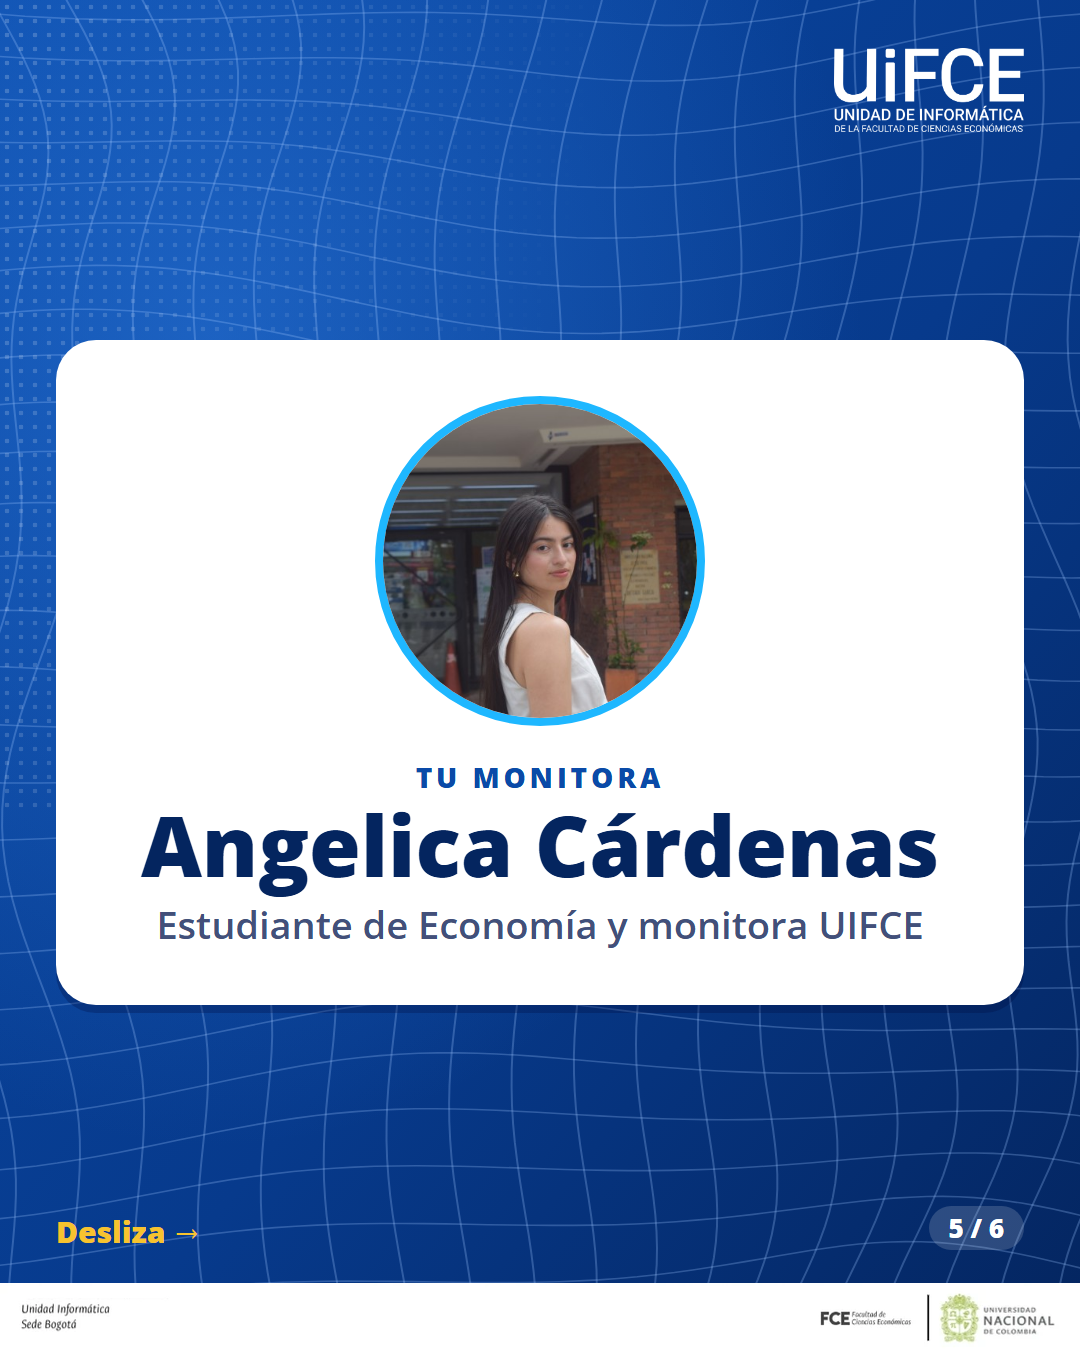
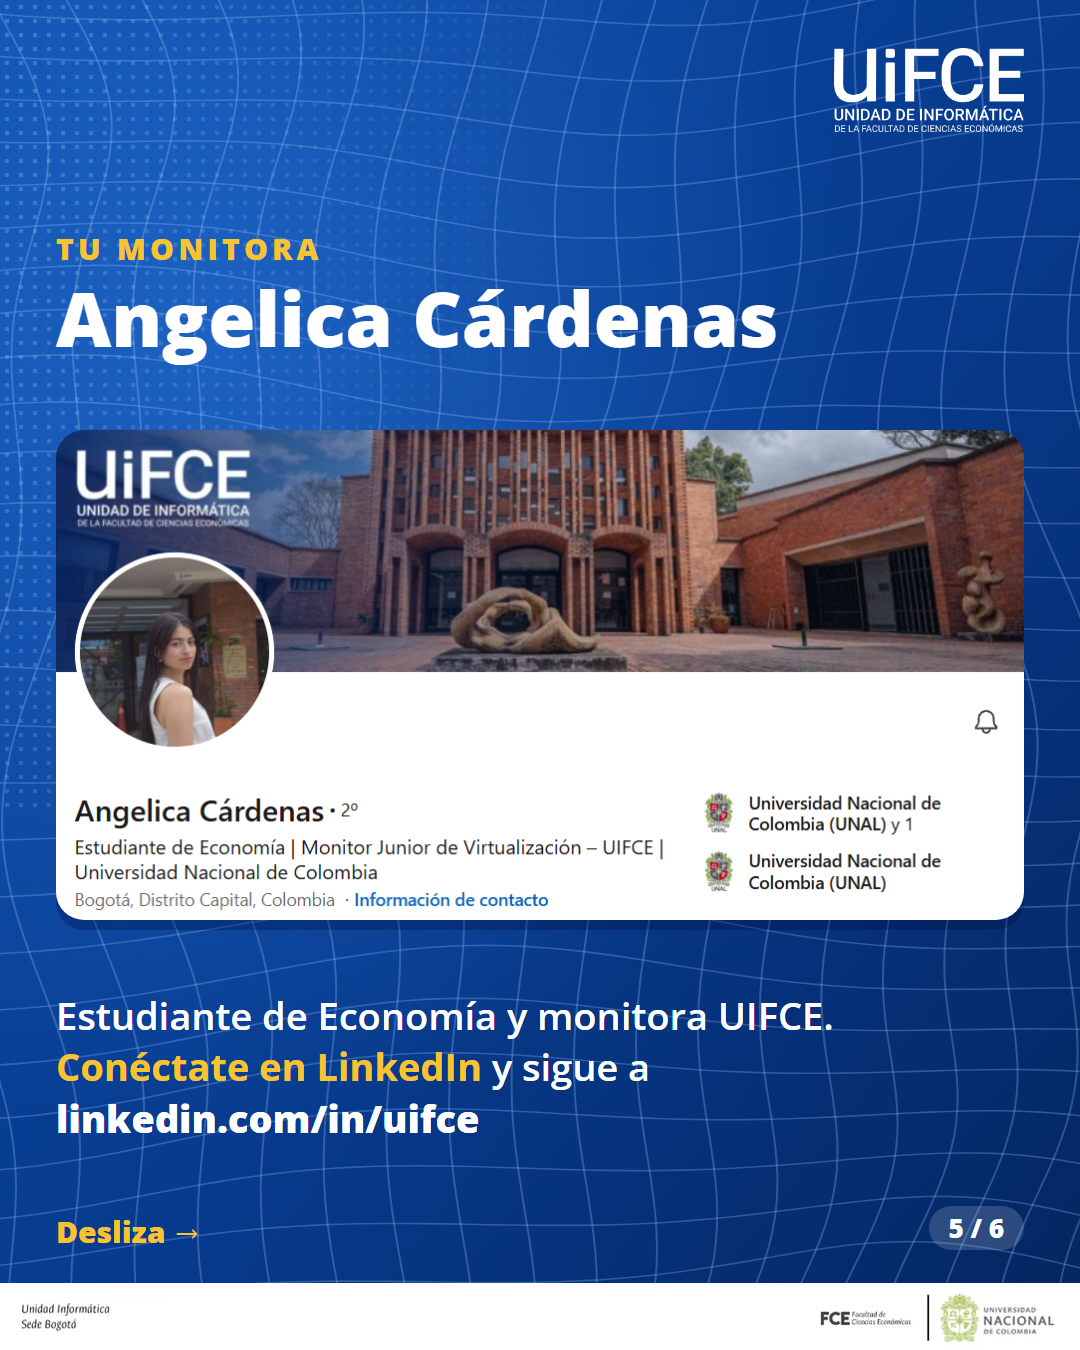
P4: captura del perfil de LinkedIn en Instagram 5 y TV 5; TV rediseñado con QR solo

diff --git a/propuesta-4/extras/tv-03.html b/propuesta-4/extras/tv-03.html
@@ -17,11 +17,11 @@ body{position:relative;overflow:hidden;background:#073a8c;font-family:var(--font
 .qrb small{display:block;font-weight:700;color:var(--blue)}
 .qrb b{display:block;font-weight:800;line-height:1.05}
 .qrb i{display:inline-block;font-style:normal;background:var(--navy);color:#fff;border-radius:999px;font-weight:700}
-</style></head><body><img class="bg" src="../assets/bg-grid.svg" alt=""><div class="dots"></div><img class="z" src="../assets/logo-uifce-static-blanco.png" alt="UIFCE" style="left:56px;top:44px;height:96px"><div class="z" style="left:56px;top:170px;width:1808px"><div style="background:var(--gold);color:var(--navy);border-radius:30px;padding:36px 48px;display:flex;align-items:center;gap:30px;box-shadow:0 8px 0 rgba(0,10,60,.28)"><svg viewBox="0 0 50 50" width="110" height="110" fill="none" stroke="#04255f" stroke-width="3.6" stroke-linecap="round" stroke-linejoin="round" style="flex:none"><circle cx="25" cy="25" r="20"/><path d="M15 26l7 7 13-15"/></svg>
-<b style="font-weight:800;font-size:70px;line-height:1.05">10 horas de corresponsabilidad + certificado</b></div>
-<p style="margin-top:30px;font-size:40px;font-weight:600">Certificado de participación para compartir en LinkedIn</p>
-<div class="card" style="margin-top:26px;padding:26px 40px;width:1020px"><div class="k" style="font-size:32px">Para recibirlos necesitas</div>
-<ul style="list-style:none;font-size:40px;font-weight:700;line-height:1.35;margin-top:8px">
-<li><span class="gold">✓</span> Asistir mínimo al <b class="gold">70 %</b> del tiempo de clase</li>
-<li><span class="gold">✓</span> Diligenciar el formulario de preguntas</li>
-<li><span class="gold">✓</span> Responder la encuesta de satisfacción</li></ul></div></div><div class="z qrb" style="right:48px;bottom:48px;border-radius:30px;padding:20px 28px;gap:26px"><img src="../assets/qr-uifce.svg" style="width:230px;height:230px" alt="QR"><span><small style="font-size:30px">Escanea y inscríbete</small><b style="font-size:48px;margin-top:4px">Inscripciones aquí</b><i style="margin-top:12px;font-size:32px;padding:6px 22px">linktr.ee/UIFCE</i></span></div></body></html>
+</style></head><body><img class="bg" src="../assets/bg-grid.svg" alt=""><div class="dots"></div><img class="z" src="../assets/logo-uifce-static-blanco.png" alt="UIFCE" style="left:56px;top:44px;height:96px"><div class="z" style="left:56px;top:170px;width:1808px"><div style="background:var(--gold);color:var(--navy);border-radius:30px;padding:40px 52px;display:flex;align-items:center;gap:34px;box-shadow:0 8px 0 rgba(0,10,60,.28)"><svg viewBox="0 0 50 50" width="130" height="130" fill="none" stroke="#04255f" stroke-width="3.6" stroke-linecap="round" stroke-linejoin="round" style="flex:none"><circle cx="25" cy="25" r="20"/><path d="M15 26l7 7 13-15"/></svg>
+<b style="font-weight:800;font-size:86px;line-height:1.05">10 horas de corresponsabilidad + certificado</b></div></div>
+<div class="z card" style="left:56px;top:470px;width:1250px;padding:40px 52px"><div class="k" style="font-size:36px">Para recibirlos necesitas</div>
+<ul style="list-style:none;font-size:48px;font-weight:700;line-height:1.3;margin-top:16px">
+<li style="margin-top:14px"><span class="gold">✓</span> Asistir mínimo al <b class="gold">70 %</b> del tiempo de clase</li>
+<li style="margin-top:14px"><span class="gold">✓</span> Diligenciar el formulario de preguntas</li>
+<li style="margin-top:14px"><span class="gold">✓</span> Responder la encuesta de satisfacción</li></ul></div>
+<div class="z" style="left:1380px;top:480px;width:490px;display:flex;align-items:center;gap:20px"><svg width="96" height="96" viewBox="0 0 50 50" style="flex:none"><rect width="50" height="50" rx="10" fill="#0A66C2"/><circle cx="12.6" cy="14.6" r="4" fill="#fff"/><rect x="9" y="20.5" width="7.2" height="20" fill="#fff"/><path d="M20.5 20.5h6.9v2.9c1.2-2 3.4-3.4 6.6-3.4 6 0 7.5 3.9 7.5 9.2v11.3h-7.2V30.8c0-2.2-.4-3.9-2.6-3.9-2.4 0-3.2 1.7-3.2 4.2v9.4h-7z" fill="#fff"/></svg><b style="font-size:32px;line-height:1.15">Certificado para compartir en LinkedIn</b></div><div class="z qrb" style="right:48px;bottom:48px;border-radius:30px;padding:22px 26px 26px;flex-direction:column;gap:14px"><b style="font-size:34px;text-align:center">Inscríbete aquí</b><img src="../assets/qr-uifce.svg" style="width:290px;height:290px" alt="QR de inscripción"></div></body></html>

diff --git a/propuesta-4/extras/tv-02.html b/propuesta-4/extras/tv-02.html
@@ -17,8 +17,8 @@ body{position:relative;overflow:hidden;background:#073a8c;font-family:var(--font
 .qrb small{display:block;font-weight:700;color:var(--blue)}
 .qrb b{display:block;font-weight:800;line-height:1.05}
 .qrb i{display:inline-block;font-style:normal;background:var(--navy);color:#fff;border-radius:999px;font-weight:700}
-</style></head><body><img class="bg" src="../assets/bg-grid.svg" alt=""><div class="dots"></div><img class="z" src="../assets/logo-uifce-static-blanco.png" alt="UIFCE" style="left:56px;top:44px;height:96px"><div class="z" style="left:56px;top:150px;width:1500px"><h2 style="font-weight:800;font-size:80px">Dos sesiones · <span class="gold">4 horas en total</span></h2></div><div class="z card" style="left:56px;top:260px;width:830px;height:460px;padding:44px 48px"><div class="k" style="font-size:34px">Sesión 1</div>
-<h3 style="font-weight:800;font-size:56px;line-height:1.1;margin-top:12px">Conoce QuickBooks y abre Crece Digital S.A.S.</h3>
-<div style="margin-top:24px;border:3px dashed rgba(255,255,255,.65);border-radius:20px;padding:16px 26px;font-weight:700;font-size:38px;line-height:1.25">Viernes 27 de noviembre<br>11 a. m. – 1 p. m.</div></div><div class="z card" style="left:1034px;top:260px;width:830px;height:460px;padding:44px 48px"><div class="k" style="font-size:34px">Sesión 2</div>
-<h3 style="font-weight:800;font-size:56px;line-height:1.1;margin-top:12px">Crea tu plan de cuentas, el capital y el catálogo</h3>
-<div style="margin-top:24px;border:3px dashed rgba(255,255,255,.65);border-radius:20px;padding:16px 26px;font-weight:700;font-size:38px;line-height:1.25">Miércoles 2 de diciembre<br>11 a. m. – 1 p. m.</div></div><div class="z qrb" style="right:48px;bottom:48px;border-radius:30px;padding:20px 28px;gap:26px"><img src="../assets/qr-uifce.svg" style="width:230px;height:230px" alt="QR"><span><small style="font-size:30px">Escanea y inscríbete</small><b style="font-size:48px;margin-top:4px">Inscripciones aquí</b><i style="margin-top:12px;font-size:32px;padding:6px 22px">linktr.ee/UIFCE</i></span></div></body></html>
+</style></head><body><img class="bg" src="../assets/bg-grid.svg" alt=""><div class="dots"></div><img class="z" src="../assets/logo-uifce-static-blanco.png" alt="UIFCE" style="left:56px;top:44px;height:96px"><div class="z" style="left:56px;top:150px;width:1500px"><h2 style="font-weight:800;font-size:84px">Dos sesiones · <span class="gold">4 horas en total</span></h2></div><div class="z card" style="left:56px;top:270px;width:1300px;height:330px;padding:34px 48px;display:flex;align-items:center;gap:44px"><div style="flex:1"><div class="k" style="font-size:34px">Sesión 1</div>
+<h3 style="font-weight:800;font-size:60px;line-height:1.1;margin-top:10px">Conoce QuickBooks y abre Crece Digital S.A.S.</h3></div>
+<div style="flex:none;width:430px;border:3px dashed rgba(255,255,255,.7);border-radius:22px;padding:24px 28px;font-weight:700;font-size:42px;line-height:1.3">Viernes 27 de noviembre<br>11 a. m. – 1 p. m.</div></div><div class="z card" style="left:56px;top:630px;width:1300px;height:330px;padding:34px 48px;display:flex;align-items:center;gap:44px"><div style="flex:1"><div class="k" style="font-size:34px">Sesión 2</div>
+<h3 style="font-weight:800;font-size:60px;line-height:1.1;margin-top:10px">Crea tu plan de cuentas, el capital y el catálogo</h3></div>
+<div style="flex:none;width:430px;border:3px dashed rgba(255,255,255,.7);border-radius:22px;padding:24px 28px;font-weight:700;font-size:42px;line-height:1.3">Miércoles 2 de diciembre<br>11 a. m. – 1 p. m.</div></div><img class="z" src="../assets/uifcito-cierre.png" alt="Uifcito" style="right:60px;top:110px;height:450px;filter:drop-shadow(0 22px 28px rgba(0,10,60,.45))"><div class="z qrb" style="right:48px;bottom:48px;border-radius:30px;padding:22px 26px 26px;flex-direction:column;gap:14px"><b style="font-size:34px;text-align:center">Inscríbete aquí</b><img src="../assets/qr-uifce.svg" style="width:290px;height:290px" alt="QR de inscripción"></div></body></html>

diff --git a/propuesta-4/extras/tv-01.html b/propuesta-4/extras/tv-01.html
@@ -17,7 +17,7 @@ body{position:relative;overflow:hidden;background:#073a8c;font-family:var(--font
 .qrb small{display:block;font-weight:700;color:var(--blue)}
 .qrb b{display:block;font-weight:800;line-height:1.05}
 .qrb i{display:inline-block;font-style:normal;background:var(--navy);color:#fff;border-radius:999px;font-weight:700}
-</style></head><body><img class="bg" src="../assets/bg-grid.svg" alt=""><div class="dots"></div><img class="z" src="../assets/logo-uifce-static-blanco.png" alt="UIFCE" style="left:56px;top:44px;height:96px"><div class="z" style="left:56px;top:190px;width:1100px"><div style="font-size:34px"><span class="chip on">Gratuito</span><span class="chip">100 % virtual</span><span class="chip on">✓ Válido por 10 horas de corresponsabilidad</span></div>
-<p style="font-weight:600;font-size:64px;margin-top:34px">Aprende contabilidad con</p>
-<h1 style="font-weight:800;font-size:200px;line-height:.95;letter-spacing:-.03em;text-transform:uppercase;margin-left:-8px">QuickBooks</h1>
-<p style="font-weight:600;font-size:60px;margin-top:20px">Formación práctica <em style="font-weight:700;color:var(--gold)">en 2 sesiones virtuales</em></p></div><img class="z" src="../assets/uifcito-cierre.png" alt="Uifcito" style="right:50px;top:120px;height:560px;filter:drop-shadow(0 22px 28px rgba(0,10,60,.45))"><div class="z white" style="left:56px;bottom:56px;border-radius:22px;padding:12px 28px"><img src="../assets/logo-quickbooks.png" style="height:82px;display:block" alt="QuickBooks"></div><div class="z qrb" style="right:48px;bottom:48px;border-radius:30px;padding:20px 28px;gap:26px"><img src="../assets/qr-uifce.svg" style="width:230px;height:230px" alt="QR"><span><small style="font-size:30px">Escanea y inscríbete</small><b style="font-size:48px;margin-top:4px">Inscripciones aquí</b><i style="margin-top:12px;font-size:32px;padding:6px 22px">linktr.ee/UIFCE</i></span></div></body></html>
+</style></head><body><img class="bg" src="../assets/bg-grid.svg" alt=""><div class="dots"></div><img class="z" src="../assets/logo-uifce-static-blanco.png" alt="UIFCE" style="left:56px;top:44px;height:96px"><div class="z" style="left:56px;top:190px;width:1400px"><div style="font-size:36px"><span class="chip on">Gratuito</span><span class="chip">100 % virtual</span><span class="chip on">✓ Válido por 10 horas de corresponsabilidad</span></div>
+<p style="font-weight:600;font-size:72px;margin-top:40px">Aprende contabilidad con</p>
+<h1 style="font-weight:800;font-size:210px;line-height:.95;letter-spacing:-.03em;text-transform:uppercase;margin-left:-8px">QuickBooks</h1>
+<p style="font-weight:600;font-size:66px;margin-top:24px">Formación práctica <em style="font-weight:700;color:var(--gold)">en 2 sesiones virtuales</em></p></div><img class="z" src="../assets/uifcito-cierre.png" alt="Uifcito" style="right:60px;top:110px;height:450px;filter:drop-shadow(0 22px 28px rgba(0,10,60,.45))"><div class="z white" style="left:56px;bottom:56px;border-radius:22px;padding:12px 28px"><img src="../assets/logo-quickbooks.png" style="height:84px;display:block" alt="QuickBooks"></div><div class="z" style="left:620px;bottom:62px;width:760px;font-weight:800;font-size:44px;line-height:1.12">Abre la contabilidad de una empresa en la nube</div><div class="z qrb" style="right:48px;bottom:48px;border-radius:30px;padding:22px 26px 26px;flex-direction:column;gap:14px"><b style="font-size:34px;text-align:center">Inscríbete aquí</b><img src="../assets/qr-uifce.svg" style="width:290px;height:290px" alt="QR de inscripción"></div></body></html>

diff --git a/propuesta-4/extras/tv-05.html b/propuesta-4/extras/tv-05.html
@@ -17,8 +17,5 @@ body{position:relative;overflow:hidden;background:#073a8c;font-family:var(--font
 .qrb small{display:block;font-weight:700;color:var(--blue)}
 .qrb b{display:block;font-weight:800;line-height:1.05}
 .qrb i{display:inline-block;font-style:normal;background:var(--navy);color:#fff;border-radius:999px;font-weight:700}
-</style></head><body><img class="bg" src="../assets/bg-grid.svg" alt=""><div class="dots"></div><img class="z" src="../assets/logo-uifce-static-blanco.png" alt="UIFCE" style="left:56px;top:44px;height:96px"><div class="z white" style="left:56px;top:210px;width:1300px;border-radius:44px;padding:44px 50px;display:flex;align-items:center;gap:46px">
-<img src="../assets/angelica-cardenas.jpg" style="width:300px;height:300px;border-radius:50%;object-fit:cover;object-position:60% 25%;border:8px solid var(--cyan);flex:none">
-<div><div style="font-weight:800;font-size:32px;letter-spacing:.14em;text-transform:uppercase;color:var(--blue)">Tu monitora</div>
-<div style="font-weight:800;font-size:84px;line-height:1.05">Angelica Cárdenas</div>
-<div style="font-weight:600;font-size:40px;color:#42507a;margin-top:8px">Estudiante de Economía y monitora UIFCE</div></div></div><div class="z" style="left:56px;top:640px;width:1050px;font-size:38px;font-weight:600;line-height:1.4">Vie. 27 nov y mié. 2 dic · 11 a. m. – 1 p. m.<br><span style="color:var(--gold);font-weight:700">uniic_bog@unal.edu.co</span> · Tel. 316 5000, ext. 12301<br>LinkedIn: <span style="color:var(--gold);font-weight:700">linkedin.com/in/uifce</span></div><div class="z qrb" style="right:48px;bottom:48px;border-radius:30px;padding:20px 28px;gap:26px"><img src="../assets/qr-uifce.svg" style="width:230px;height:230px" alt="QR"><span><small style="font-size:30px">Escanea y inscríbete</small><b style="font-size:48px;margin-top:4px">Inscripciones aquí</b><i style="margin-top:12px;font-size:32px;padding:6px 22px">linktr.ee/UIFCE</i></span></div></body></html>
+</style></head><body><img class="bg" src="../assets/bg-grid.svg" alt=""><div class="dots"></div><img class="z" src="../assets/logo-uifce-static-blanco.png" alt="UIFCE" style="left:56px;top:44px;height:96px"><div class="z" style="left:56px;top:170px;width:1200px;border-radius:30px;overflow:hidden;box-shadow:0 10px 0 rgba(0,10,60,.3)"><img src="../assets/perfil-linkedin.png" style="display:block;width:100%" alt="Perfil de LinkedIn de Angelica Cárdenas"></div>
+<div class="z" style="left:56px;top:150px;display:none"></div><div class="z" style="left:56px;top:810px;width:1400px;font-size:42px;font-weight:600;line-height:1.4">Vie. 27 nov y mié. 2 dic · 11 a. m. – 1 p. m.<br><span style="color:var(--gold);font-weight:700">uniic_bog@unal.edu.co</span> · Tel. 316 5000, ext. 12301<br>LinkedIn: <span style="color:var(--gold);font-weight:700">linkedin.com/in/uifce</span></div><img class="z" src="../assets/uifcito-cierre.png" alt="Uifcito" style="right:60px;top:110px;height:450px;filter:drop-shadow(0 22px 28px rgba(0,10,60,.45))"><div class="z qrb" style="right:48px;bottom:48px;border-radius:30px;padding:22px 26px 26px;flex-direction:column;gap:14px"><b style="font-size:34px;text-align:center">Inscríbete aquí</b><img src="../assets/qr-uifce.svg" style="width:290px;height:290px" alt="QR de inscripción"></div></body></html>

diff --git a/propuesta-4/extras/tv-04.html b/propuesta-4/extras/tv-04.html
@@ -17,6 +17,7 @@ body{position:relative;overflow:hidden;background:#073a8c;font-family:var(--font
 .qrb small{display:block;font-weight:700;color:var(--blue)}
 .qrb b{display:block;font-weight:800;line-height:1.05}
 .qrb i{display:inline-block;font-style:normal;background:var(--navy);color:#fff;border-radius:999px;font-weight:700}
-</style></head><body><img class="bg" src="../assets/bg-grid.svg" alt=""><div class="dots"></div><img class="z" src="../assets/logo-uifce-static-blanco.png" alt="UIFCE" style="left:56px;top:44px;height:96px"><div class="z" style="left:56px;top:190px;width:1500px"><div class="k" style="font-size:34px">Antes de empezar</div>
-<h2 style="font-weight:800;font-size:110px;line-height:1.02;margin-top:10px">¿Qué es QuickBooks?</h2>
-<p style="margin-top:36px;font-size:54px;line-height:1.35;color:#e6efff;width:1250px">Una plataforma de <b style="color:#fff">contabilidad en la nube</b> que digitaliza el ciclo contable, <b style="color:#fff">del registro de cada operación a la organización de las cuentas.</b> Muchas pequeñas y medianas empresas la usan.</p></div><div class="z white" style="left:56px;bottom:56px;border-radius:22px;padding:12px 28px"><img src="../assets/logo-quickbooks.png" style="height:82px;display:block" alt="QuickBooks"></div><div class="z qrb" style="right:48px;bottom:48px;border-radius:30px;padding:20px 28px;gap:26px"><img src="../assets/qr-uifce.svg" style="width:230px;height:230px" alt="QR"><span><small style="font-size:30px">Escanea y inscríbete</small><b style="font-size:48px;margin-top:4px">Inscripciones aquí</b><i style="margin-top:12px;font-size:32px;padding:6px 22px">linktr.ee/UIFCE</i></span></div></body></html>
+</style></head><body><img class="bg" src="../assets/bg-grid.svg" alt=""><div class="dots"></div><img class="z" src="../assets/logo-uifce-static-blanco.png" alt="UIFCE" style="left:56px;top:44px;height:96px"><div class="z" style="left:56px;top:180px;width:1380px"><div class="k" style="font-size:38px">Antes de empezar</div>
+<h2 style="font-weight:800;font-size:108px;line-height:1.02;margin-top:12px;white-space:nowrap">¿Qué es QuickBooks?</h2>
+<p style="margin-top:36px;font-size:54px;line-height:1.35;color:#e6efff">Una plataforma de <b style="color:#fff">contabilidad en la nube</b> que digitaliza el ciclo contable, <b style="color:#fff">del registro de cada operación a la organización de las cuentas.</b></p>
+<p style="margin-top:22px;font-size:54px;line-height:1.35;color:#e6efff">Muchas pequeñas y medianas empresas la usan.</p></div><img class="z" src="../assets/uifcito-cierre.png" alt="Uifcito" style="right:60px;top:110px;height:450px;filter:drop-shadow(0 22px 28px rgba(0,10,60,.45))"><div class="z white" style="left:56px;bottom:56px;border-radius:22px;padding:12px 28px"><img src="../assets/logo-quickbooks.png" style="height:84px;display:block" alt="QuickBooks"></div><div class="z qrb" style="right:48px;bottom:48px;border-radius:30px;padding:22px 26px 26px;flex-direction:column;gap:14px"><b style="font-size:34px;text-align:center">Inscríbete aquí</b><img src="../assets/qr-uifce.svg" style="width:290px;height:290px" alt="QR de inscripción"></div></body></html>

diff --git a/propuesta-4/extras/ig-05.html b/propuesta-4/extras/ig-05.html
@@ -17,8 +17,6 @@ body{position:relative;overflow:hidden;background:#073a8c;font-family:var(--font
 .qrb small{display:block;font-weight:700;color:var(--blue)}
 .qrb b{display:block;font-weight:800;line-height:1.05}
 .qrb i{display:inline-block;font-style:normal;background:var(--navy);color:#fff;border-radius:999px;font-weight:700}
-.n{position:absolute;z-index:3;right:56px;bottom:100px;font-weight:800;font-size:26px;background:rgba(255,255,255,.16);border-radius:999px;padding:6px 20px}.sw{position:absolute;z-index:3;left:56px;bottom:100px;font-weight:800;font-size:30px;color:var(--gold)}</style></head><body><img class="bg" src="../assets/bg-grid.svg" alt=""><div class="dots"></div><img class="z" src="../assets/logo-uifce-static-blanco.png" alt="UIFCE" style="right:56px;top:48px;height:84px"><div class="z white" style="left:56px;top:340px;width:968px;border-radius:40px;padding:56px 50px;text-align:center">
-<img src="../assets/angelica-cardenas.jpg" style="width:330px;height:330px;border-radius:50%;object-fit:cover;object-position:60% 25%;border:8px solid var(--cyan);display:block;margin:0 auto">
-<div style="margin-top:34px;font-weight:800;font-size:28px;letter-spacing:.14em;text-transform:uppercase;color:var(--blue)">Tu monitora</div>
-<div style="font-weight:800;font-size:84px;line-height:1.05;margin-top:6px">Angelica Cárdenas</div>
-<div style="font-weight:600;font-size:38px;color:#42507a;margin-top:12px">Estudiante de Economía y monitora UIFCE</div></div><img class="z" src="../assets/footer.png" alt="" style="left:0;bottom:0;width:100%;height:auto"><div class="sw">Desliza →</div><div class="n">5 / 6</div></body></html>
+.n{position:absolute;z-index:3;right:56px;bottom:100px;font-weight:800;font-size:26px;background:rgba(255,255,255,.16);border-radius:999px;padding:6px 20px}.sw{position:absolute;z-index:3;left:56px;bottom:100px;font-weight:800;font-size:30px;color:var(--gold)}</style></head><body><img class="bg" src="../assets/bg-grid.svg" alt=""><div class="dots"></div><img class="z" src="../assets/logo-uifce-static-blanco.png" alt="UIFCE" style="right:56px;top:48px;height:84px"><div class="z" style="left:56px;top:230px;width:968px"><div class="k" style="font-size:30px">Tu monitora</div><h2 style="font-weight:800;font-size:76px;line-height:1.05;margin-top:10px">Angelica Cárdenas</h2></div>
+<div class="z" style="left:56px;top:430px;width:968px;border-radius:28px;overflow:hidden;box-shadow:0 10px 0 rgba(0,10,60,.3)"><img src="../assets/perfil-linkedin.png" style="display:block;width:100%" alt="Perfil de LinkedIn de Angelica Cárdenas"></div>
+<div class="z" style="left:56px;top:990px;width:968px;font-size:38px;font-weight:600;line-height:1.35">Estudiante de Economía y monitora UIFCE.<br><span style="color:var(--gold);font-weight:700">Conéctate en LinkedIn</span> y sigue a <b>linkedin.com/in/uifce</b></div><img class="z" src="../assets/footer.png" alt="" style="left:0;bottom:0;width:100%;height:auto"><div class="sw">Desliza →</div><div class="n">5 / 6</div></body></html>
